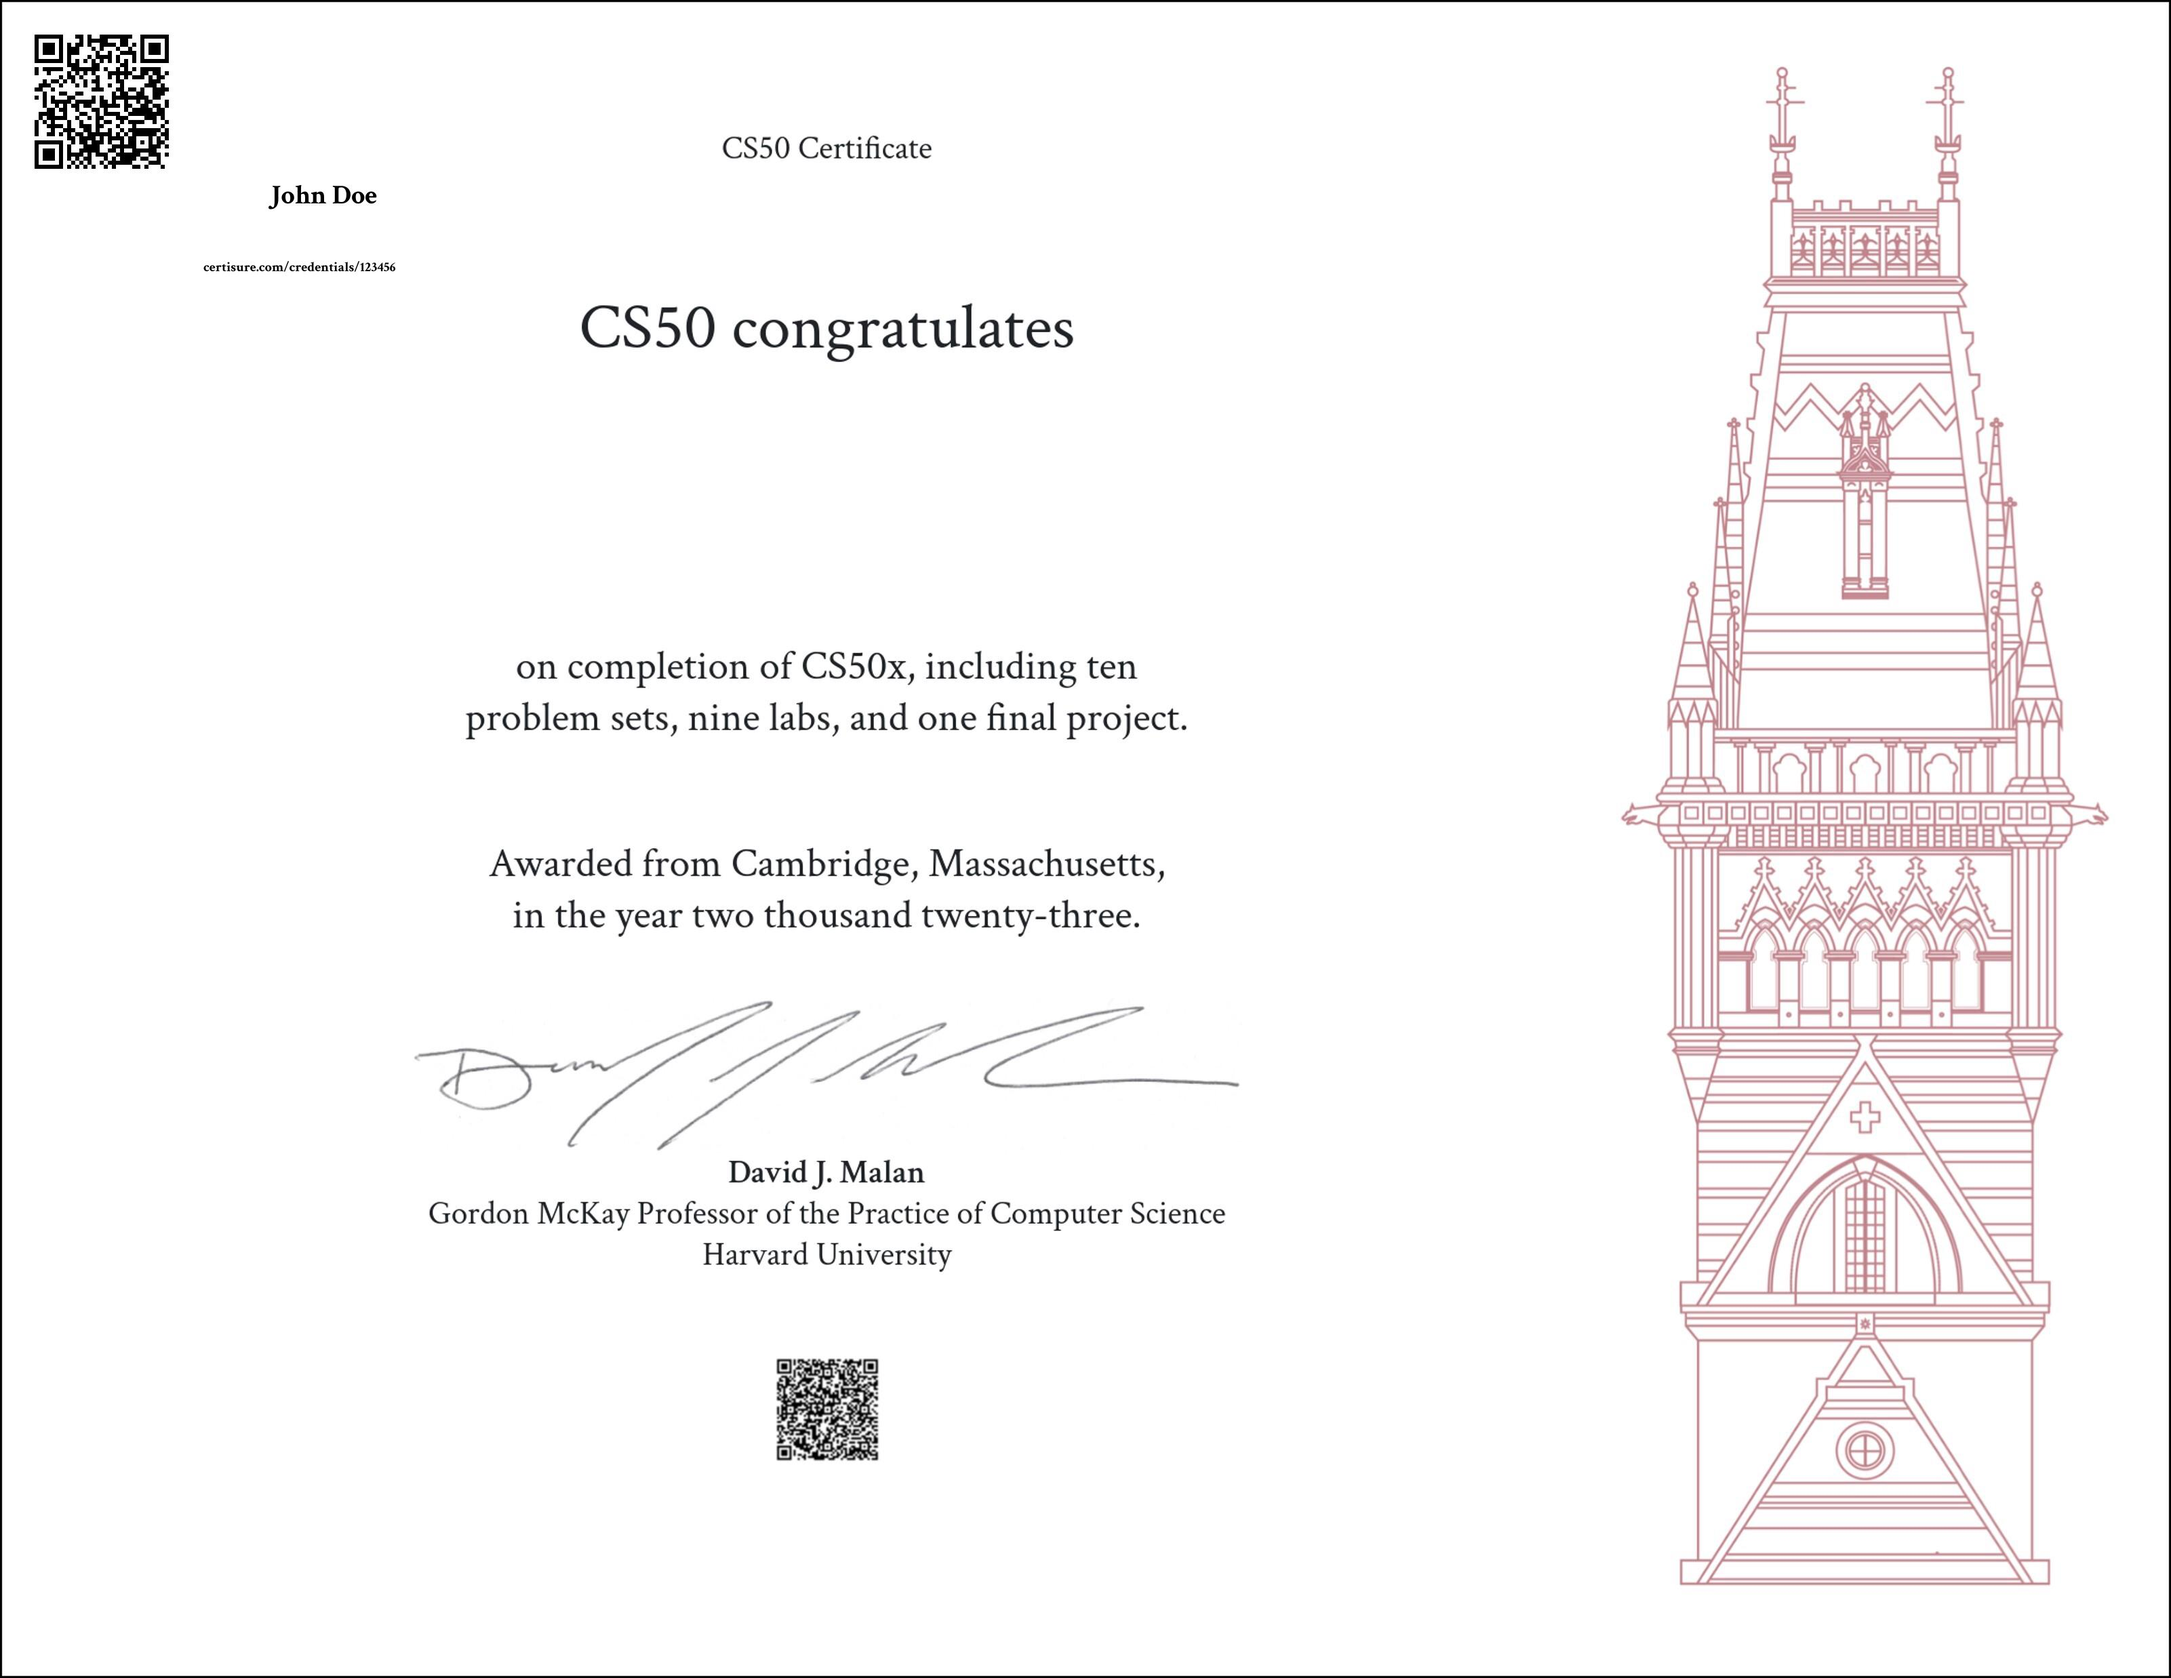
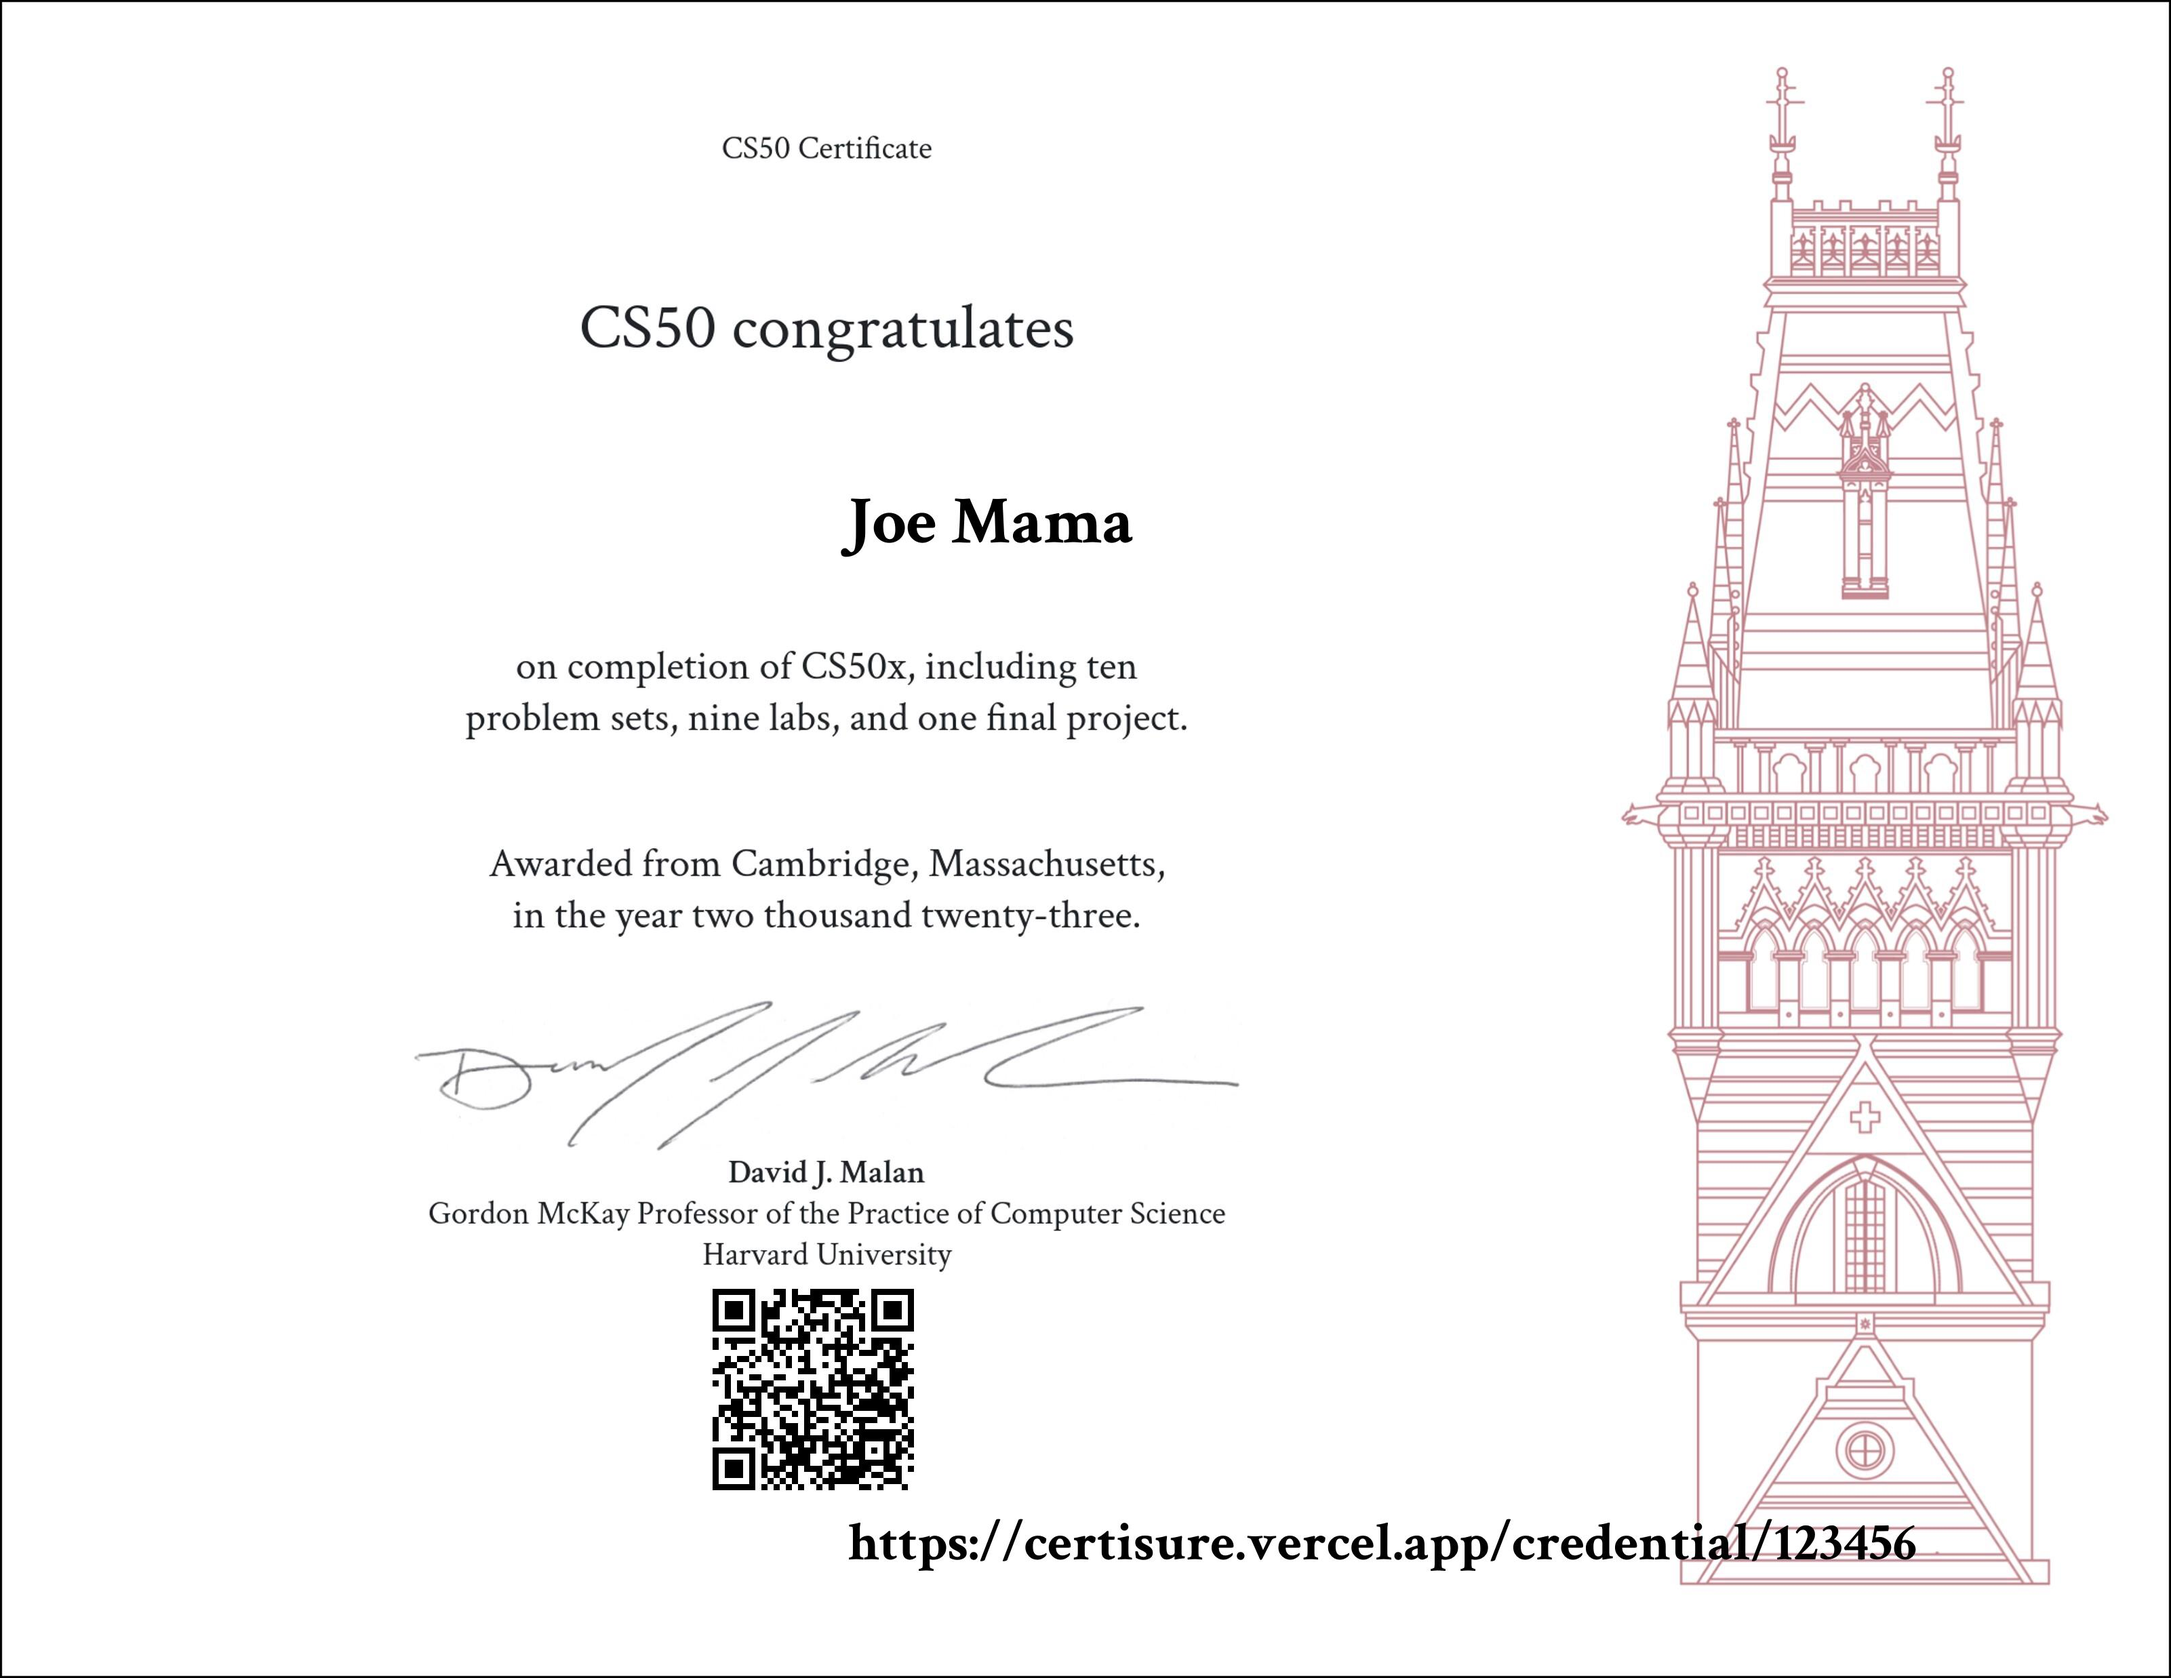
added models and db conn

diff --git a/testing/test.go b/testing/test.go
@@ -15,7 +15,7 @@ import (
 )
 
 func main() {
-	imgFile, err := os.Open("certificate.jpeg")
+	imgFile, err := os.Open("./certificate.jpeg")
 	if err != nil {
 		log.Fatal(err)
 	}
@@ -49,16 +49,16 @@ func main() {
 	c.SetDst(rgba)
 	c.SetSrc(image.Black)
 
-	// name
-	c.SetFontSize(40)
-	_, err = c.DrawString("john doe", freetype.Pt(400, 300))
+	c.SetFont(f)
+	c.SetFontSize(100)
+	_, err = c.DrawString("Joe Mama", freetype.Pt(1250, 800))
 	if err != nil {
 		log.Fatal(err)
 	}
 
-	// link
-	c.SetFontSize(20)
-	_, err = c.DrawString("certisure.com/credentials/123456", freetype.Pt(300, 400))
+	c.SetFont(f)
+	c.SetFontSize(80)
+	_, err = c.DrawString("https://certisure.vercel.app/credential/123456", freetype.Pt(1250, 2300))
 	if err != nil {
 		log.Fatal(err)
 	}
@@ -68,11 +68,11 @@ func main() {
 	if err != nil {
 		log.Fatal(err)
 	}
-	qr, err = barcode.Scale(qr, 200, 200)
+	qr, err = barcode.Scale(qr, 300, 300)
 	if err != nil {
 		log.Fatal(err)
 	}
-	draw.Draw(rgba, image.Rect(50, 50, 250, 250), qr, image.Point{}, draw.Over)
+	draw.Draw(rgba, image.Rect(1050, 1900, 1350, 2200), qr, image.Point{}, draw.Over)
 
 	outFile, err := os.Create("certificate_new.jpg")
 	if err != nil {

diff --git a/internal/models/group.go b/internal/models/group.go
@@ -1,0 +1,21 @@
+package models
+
+import "go.mongodb.org/mongo-driver/bson/primitive"
+
+type Group struct {
+	Id        primitive.ObjectID `bson:"_id,omitempty" json:"_id"`
+	Date      string             `bson:"date" json:"date"`
+	GroupName string             `bson:"group_name" json:"group_name"`
+	Type      int                `bson:"type" json:"type"`
+	ImageLink string             `bson:"imagelink" json:"imagelink"`
+	Issuer    string             `bson:"issuer" json:"issuer"`
+	GroupID   string             `bson:"group_id" json:"group_id"`
+	FontName  string             `bson:"fontname" json:"fontname"`
+	NameX     float64            `bson:"name_x" json:"name_x"`
+	NameY     float64            `bson:"name_y" json:"name_y"`
+	LinkX     float64            `bson:"link_x" json:"link_x"`
+	LinkY     float64            `bson:"link_y" json:"link_y"`
+	QrX       float64            `bson:"qr_x" json:"qr_x"`
+	QrY       float64            `bson:"qr_y" json:"qr_y"`
+	Email     string             `bson:"email" json:"email"`
+}

diff --git a/internal/models/user.go b/internal/models/user.go
@@ -1,0 +1,21 @@
+package models
+
+import (
+	"time"
+
+	"go.mongodb.org/mongo-driver/bson/primitive"
+)
+
+type User struct {
+	Id           primitive.ObjectID `bson:"_id,omitempty" json:"id,omitempty"`
+	Username     string             `bson:"username" json:"username"`
+	Email        string             `bson:"email" json:"email"`
+	Password     string             `bson:"password" json:"-"`
+	Phone        string             `bson:"phone" json:"phone"`
+	Subscription *Subscription      `bson:"subscription" json:"subscription"`
+}
+
+type Subscription struct {
+	Type       string    `bson:"type" json:"type"`
+	Expiration time.Time `bson:"expiration_date" json:"expiration_date"`
+}

diff --git a/internal/models/certificate.go b/internal/models/certificate.go
@@ -1,0 +1,16 @@
+package models
+
+import (
+	"time"
+
+	"go.mongodb.org/mongo-driver/bson/primitive"
+)
+
+type Certificate struct {
+	Id        primitive.ObjectID `bson:"_id,omitempty" json:"id,omitempty"`
+	GroupId   string             `bson:"group_id" json:"group_id"`
+	GroupName string             `bson:"group_name" json:"group_name"`
+	Email     string             `bson:"email" json:"email"`
+	Username  string             `bson:"username" json:"username"`
+	Date      time.Time          `bson:"data" json:"data"`
+}

diff --git a/internal/store/db.go b/internal/store/db.go
@@ -1,0 +1,21 @@
+package main
+
+import (
+	"context"
+	"time"
+
+	"go.mongodb.org/mongo-driver/mongo"
+	"go.mongodb.org/mongo-driver/mongo/options"
+)
+
+func NewMongoDB(uri string) (*mongo.Database, error) {
+	ctx, cancel := context.WithTimeout(context.Background(), 10*time.Second)
+	defer cancel()
+
+	client, err := mongo.Connect(ctx, options.Client().ApplyURI(uri))
+	if err != nil {
+		return nil, err
+	}
+
+	return client.Database("certisure"), nil
+}

diff --git a/cmd/server.go b/cmd/server.go
@@ -1,0 +1,2 @@
+package main 
+
